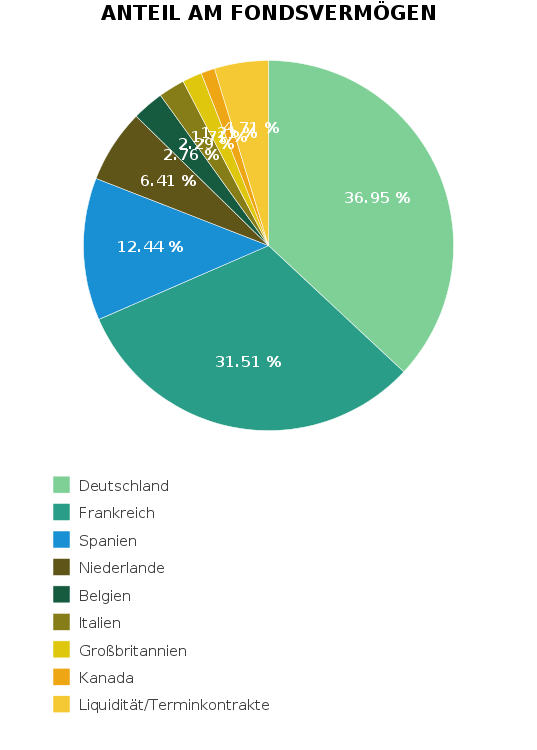
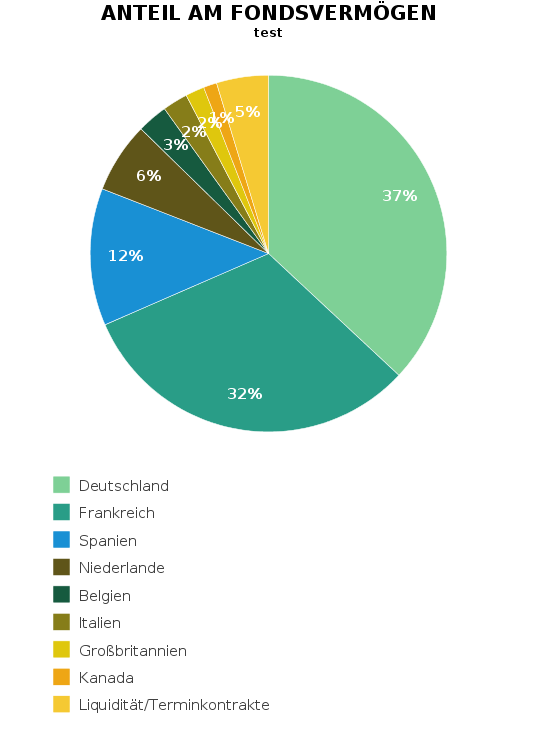
Commit 14 Chart Feinschliff
@Component

diff --git a/src/main/java/exercise/chart/Piechart.java b/src/main/java/exercise/chart/Piechart.java
@@ -9,10 +9,12 @@ import org.jfree.chart.block.BlockBorder;
 import org.jfree.chart.labels.StandardPieSectionLabelGenerator;
 import org.jfree.chart.labels.StandardPieToolTipGenerator;
 import org.jfree.chart.plot.PiePlot;
+import org.jfree.chart.title.LegendTitle;
 import org.jfree.data.general.DefaultPieDataset;
 import org.jfree.data.general.PieDataset;
 import org.jfree.ui.ApplicationFrame;
 import org.jfree.ui.RectangleInsets;
+import org.jfree.util.UnitType;
 
 import javax.swing.*;
 import java.awt.*;
@@ -96,13 +98,15 @@ public class Piechart extends ApplicationFrame {
 
 		// Einfache Labels
 		plot.setSimpleLabels(true);
-		plot.setLabelGenerator(new StandardPieSectionLabelGenerator("{1} %"));
+		plot.setLabelGenerator(new StandardPieSectionLabelGenerator("{2}"));
 
 		plot.setLabelBackgroundPaint(null);
 		plot.setLabelOutlinePaint(null);
 		plot.setLabelShadowPaint(null);
 		plot.setLabelPaint(Color.white);
 		plot.setLabelFont(new Font("Arial", Font.BOLD, 15));
+
+		plot.setSimpleLabelOffset(new RectangleInsets(UnitType.RELATIVE, 0.1, 0.1, 0.1, 0.1));
 
 		int j = 0;
 
@@ -116,8 +120,6 @@ public class Piechart extends ApplicationFrame {
 
 		}
 
-
-
 		plot.setToolTipGenerator(new StandardPieToolTipGenerator("{0} = {2}", NumberFormat.getNumberInstance(), NumberFormat.getPercentInstance()));
 
 		// Sektion hervorheben
@@ -126,12 +128,16 @@ public class Piechart extends ApplicationFrame {
 		// Legende mit quadratischen Colorboxen
 		plot.setLegendItemShape(new java.awt.Rectangle(17, 17));
 
+		LegendTitle legendTitle = new LegendTitle(chart.getPlot());
+
 		// Legende
 		chart.getLegend().setFrame(BlockBorder.NONE);
 		chart.getLegend().setItemLabelPadding(new RectangleInsets(5.0, 7.0, 3.0, 900.0));
 		chart.getLegend().setPadding(new RectangleInsets(0.0, 50.0, 30.0, 0.0));
 
 		chart.getLegend().setItemFont(new Font("Arial", Font.PLAIN, 15));
+
+		// chart.addSubtitle(new TextTitle("test"));
 
 		return chart;
 	}

diff --git a/src/main/java/exercise/output/GenerateOutputFiles.java b/src/main/java/exercise/output/GenerateOutputFiles.java
@@ -48,6 +48,10 @@ public class GenerateOutputFiles {
 
 	}
 
+	/* TODO
+	Exportieren als SVG Datei
+	 */
+
 	// Methode zum Exportieren als PDF
 	public static void exportPDF(File name, JFreeChart chart, int x, int y) {
 
